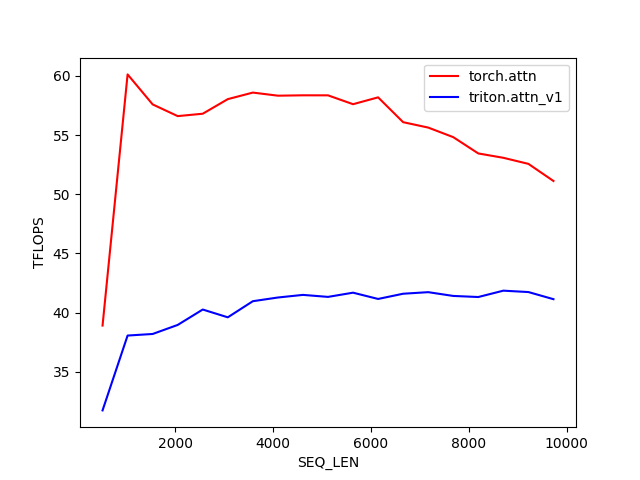
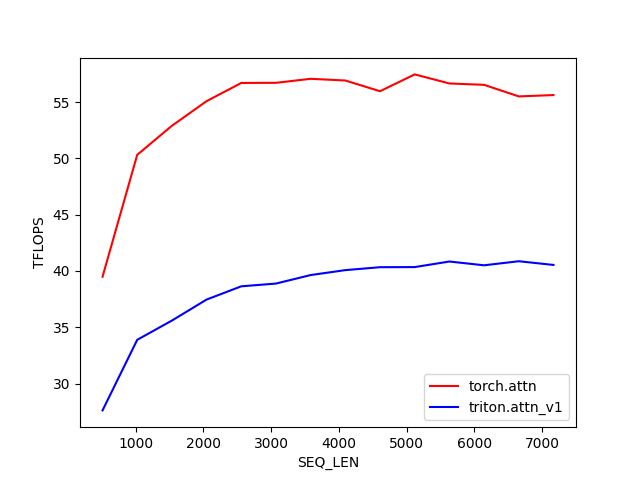
working bwd

diff --git a/08_flash_attention_causal_bwd_v1.py b/08_flash_attention_causal_bwd_v1.py
@@ -126,7 +126,12 @@ def flash_attn_v1_fwd_kernel(
         triton.Config({"BLOCK_SIZE_M": 64, "BLOCK_SIZE_N": 32}, num_stages=3, num_warps=4),
         triton.Config({"BLOCK_SIZE_M": 32, "BLOCK_SIZE_N": 32}, num_stages=4, num_warps=4),
     ],
-    key=["N"]
+    key=["N"],
+    # Backward uses atomic adds for dQ. During autotune, Triton runs multiple
+    # candidate configs on the same buffers, so we must reset outputs between
+    # trials to avoid accumulating gradients across benchmark runs. 
+    #                                                       -- gpt-5.3-codex
+    reset_to_zero=["dQ_ptr", "dK_ptr", "dV_ptr"]
 )
 @triton.jit
 def flash_attn_v1_bwd_kernel(
@@ -216,19 +221,15 @@ def flash_attn_v1_bwd_kernel(
 
         # reconstruct P using M and L: P = exp(S - M) / L
         P = tl.exp(S - M[:, None]) / L[:, None]
-        P = tl.where(valid_mask, P, 0.0)
 
         # dV += P^T @ DO
         dV += tl.dot(tl.trans(P).to(V.dtype), dO)
 
         # dP = dO @ V^T
         dP = tl.dot(dO, tl.trans(V))
-        dP = tl.where(valid_mask, dP, 0.0)
-
 
         # dS = P * (dP - D)
         dS = P * (dP - D[:, None])
-        dS = tl.where(valid_mask, dS, 0.0)
 
         # dQ += dS @ K * scale
         dQ_block = tl.dot(dS.to(K.dtype), K) * scale
@@ -285,7 +286,7 @@ class flashattention_v1(torch.autograd.Function):
 
         B, H, N, d = q.shape
 
-        # We keep initialization as fp32 to facilitate clean float32 Triton atomic adds
+        # We keep initialization as fp32 for neat float32 Triton atomic adds
         dQ = torch.zeros_like(q, dtype=torch.float32)
         dK = torch.zeros_like(k, dtype=torch.float32)
         dV = torch.zeros_like(v, dtype=torch.float32)
@@ -322,7 +323,7 @@ for mode in ["fwd", "bwd", "fwd_bwd"]:
     configs.append(
         triton.testing.Benchmark(
             x_names=["SEQ_LEN"],
-            x_vals=[512 * i for i in range(1, 20)],
+            x_vals=[512 * i for i in range(1, 15)],
             line_arg="provider",
             line_vals=["torch", "triton"],
             line_names=[
@@ -375,7 +376,7 @@ def benchmark(SEQ_LEN, mode, provider, device=DEVICE):
     return total_flops * 1e-12 / (ms * 1e-3)
 
 
-def test_flashattention_kernel(B, H, N, d, device=DEVICE, atol=1e-2):
+def test_flashattention_kernel(B, H, N, d, device=DEVICE, atol=5e-3):
     q = torch.randn((B, H, N, d), dtype=torch.float16, device=device, requires_grad=True)
     k = torch.randn((B, H, N, d), dtype=torch.float16, device=device, requires_grad=True)
     v = torch.randn((B, H, N, d), dtype=torch.float16, device=device, requires_grad=True)
@@ -395,18 +396,18 @@ def test_flashattention_kernel(B, H, N, d, device=DEVICE, atol=1e-2):
     tri_attn.backward(dO)
     torch_attn.backward(dO)
 
-    torch.testing.assert_close(q.grad, q_ref.grad, atol=atol, rtol=1e-2)
-    torch.testing.assert_close(k.grad, k_ref.grad, atol=atol, rtol=1e-2)
-    torch.testing.assert_close(v.grad, v_ref.grad, atol=atol, rtol=1e-2)
+    torch.testing.assert_close(q.grad, q_ref.grad, atol=atol, rtol=0)
+    torch.testing.assert_close(k.grad, k_ref.grad, atol=atol, rtol=0)
+    torch.testing.assert_close(v.grad, v_ref.grad, atol=atol, rtol=0)
 
     print("BWD PASSED")
 
 
 if __name__ == "__main__":
-    test_flashattention_kernel(1, 1, 128, 32)
-    test_flashattention_kernel(1, 1, 128, 64)
-    test_flashattention_kernel(1, 1, 128, 128)
-    test_flashattention_kernel(32, 4, 128, 32)
-    test_flashattention_kernel(32, 4, 125, 32)
+    # test_flashattention_kernel(1, 1, 128, 32)
+    # test_flashattention_kernel(1, 1, 128, 64)
+    # test_flashattention_kernel(1, 1, 128, 128)
+    # test_flashattention_kernel(32, 4, 128, 32)
+    # test_flashattention_kernel(32, 4, 125, 32)
     if len(sys.argv) > 1 and sys.argv[1] == "--benchmark":
         benchmark.run(save_path='.', print_data=False)
